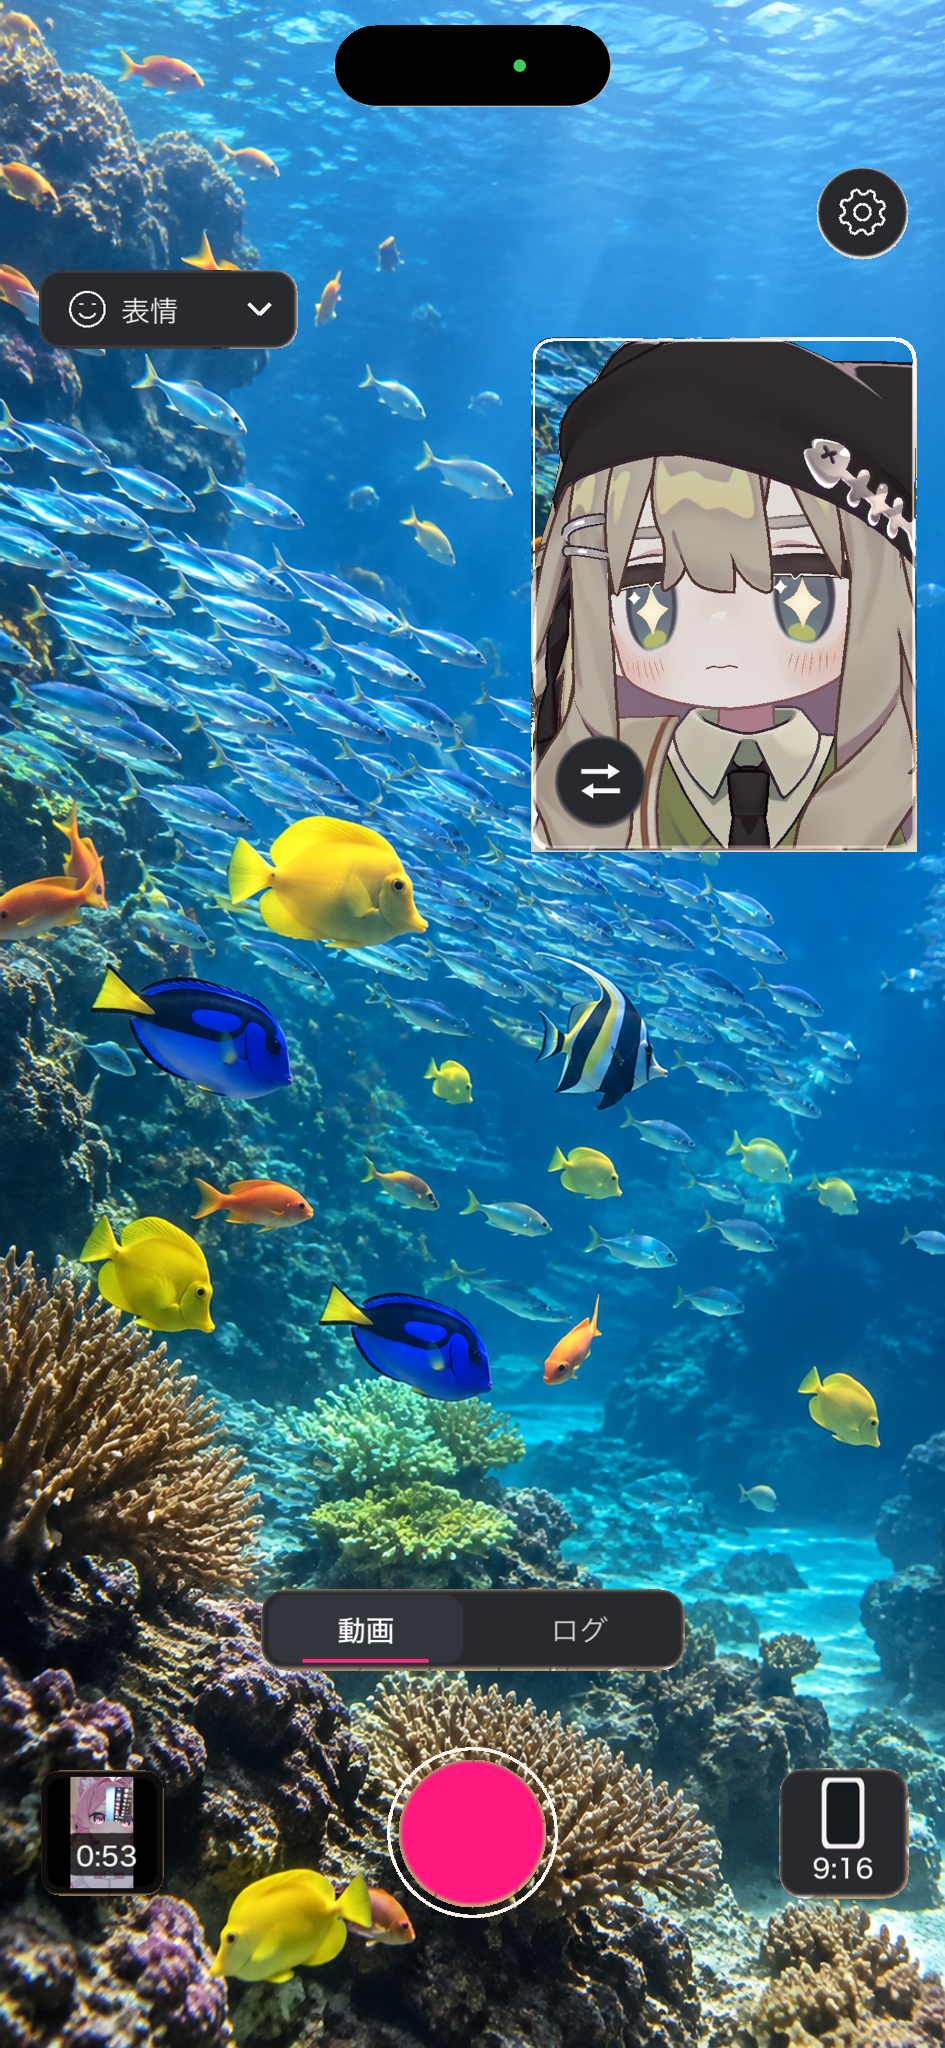
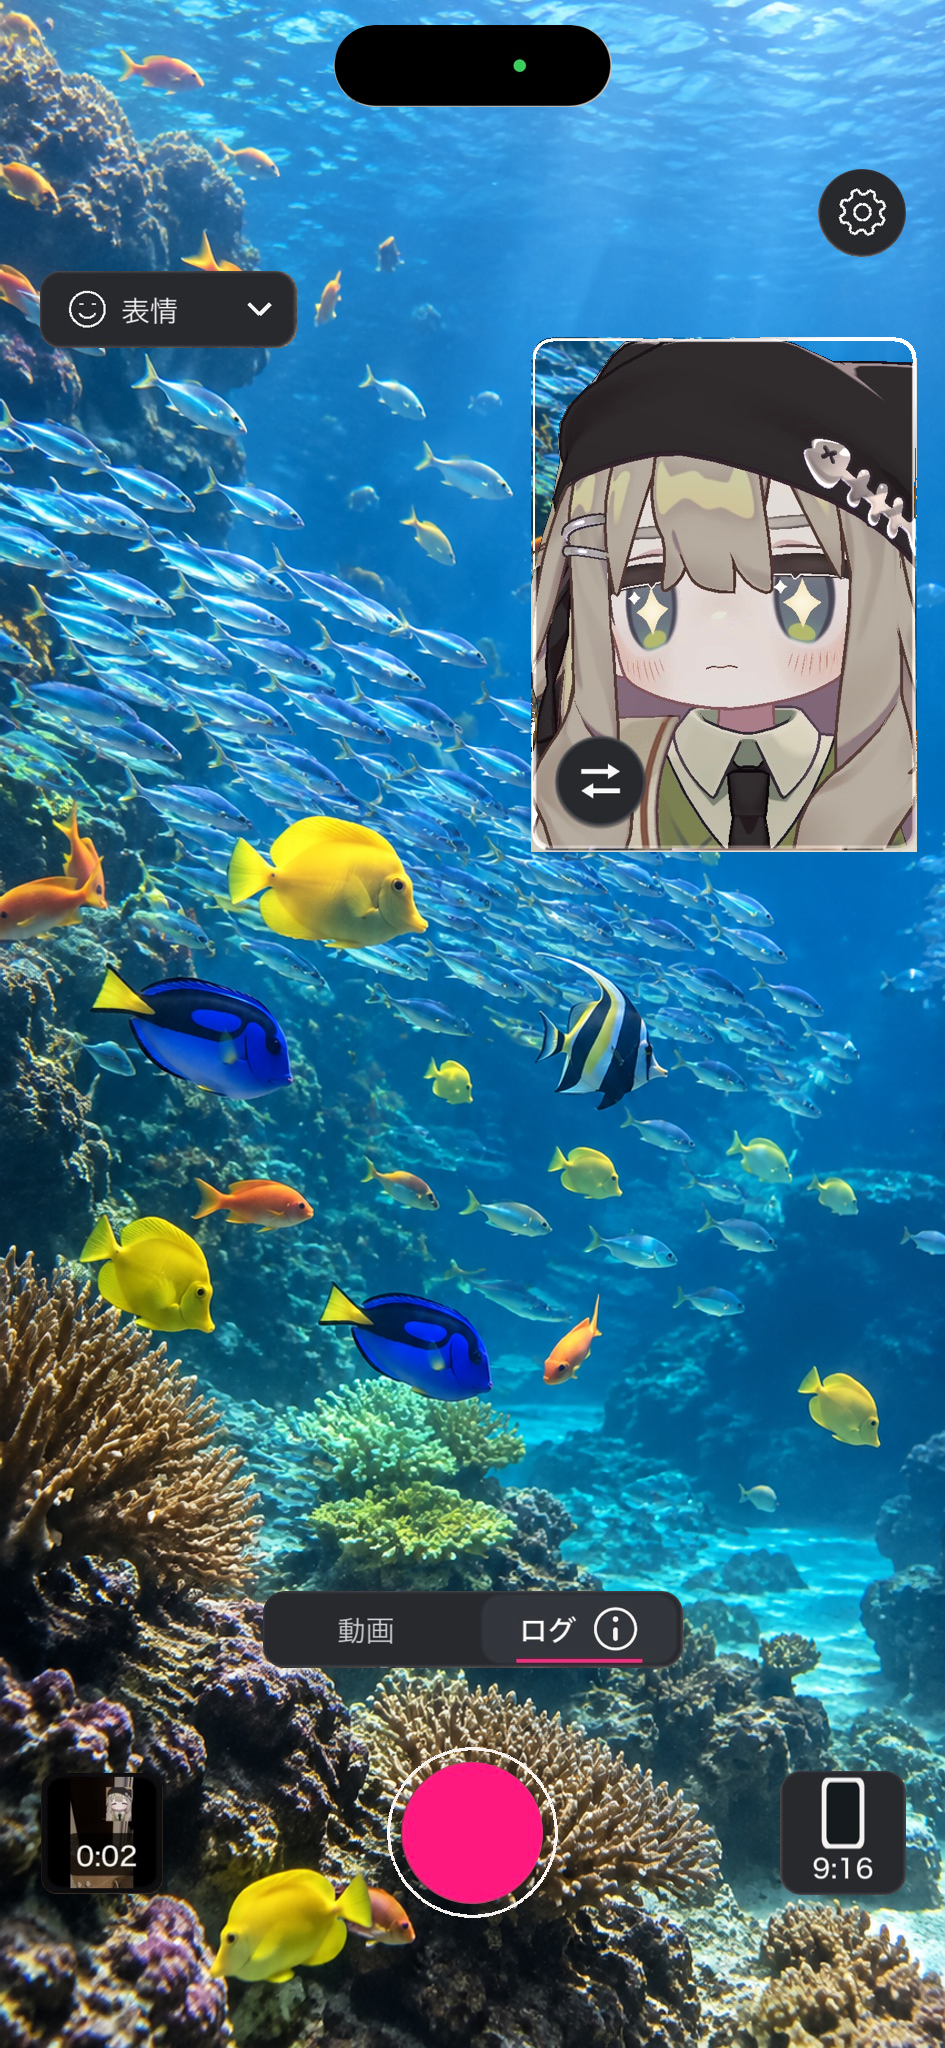
承認済みの撮影UIと編集テキスト枠を反映 (#6)

diff --git a/app/page.tsx b/app/page.tsx
@@ -24,7 +24,7 @@ export default function Home() {
             <a className="sub-link" href="#log">できることを見る <span aria-hidden="true">↓</span></a>
           </div>
         </div>
-        <figure className="hero-figure"><Screen file="capture.webp?v=aquarium-20260913" alt="色鮮やかな魚が泳ぐ水族館の水槽とアバターを映した撮影画面" className="hero-device" priority /><figcaption><Credit /><span className="caption">撮影画面</span></figcaption></figure>
+        <figure className="hero-figure"><Screen file="capture.webp?v=ui-20260913" alt="色鮮やかな魚が泳ぐ水族館の水槽とアバターを映した撮影画面" className="hero-device" priority /><figcaption><Credit /><span className="caption">撮影画面</span></figcaption></figure>
       </section>
       <section className="section review-section" id="log" aria-labelledby="log-heading">
         <div><span id="features" className="anchor" /><div className="tag">ログ</div><h2 id="log-heading">2秒ずつ撮って、<br />あとでつなぐ</h2>
@@ -44,7 +44,7 @@ export default function Home() {
       <section className="section editing-section" id="editing" aria-labelledby="editing-heading">
         <div><div className="tag">動画の編集</div><h2 id="editing-heading">動画をカットして、<br />文字を入れる</h2><p>撮影した動画をアプリで編集できます。<br />文字の位置や大きさ、動画の色味も調整できます。</p>
           <dl className="editing-list"><div><dt>トリム</dt><dd>使いたい部分を残す</dd></div><div><dt>テキスト</dt><dd>文字を入れて、位置や大きさを調整</dd></div><div><dt>フィルタ</dt><dd>クリップごとに色味を変える</dd></div></dl></div>
-        <figure><Screen file="video-editor.webp?v=scenery-20260913" alt="富士山・赤レンガ倉庫・五稜郭・レインボーブリッジと牛の景色に「すごい景色！」と文字を入れた動画編集画面" className="editor-device" /><figcaption><span className="caption">動画編集画面</span><Credit /></figcaption></figure>
+        <figure><Screen file="video-editor.webp?v=textbox-20260913" alt="富士山・赤レンガ倉庫・五稜郭・レインボーブリッジと牛の景色に「すごい景色！」と文字を入れた動画編集画面" className="editor-device" /><figcaption><span className="caption">動画編集画面</span><Credit /></figcaption></figure>
       </section>
       <section className="section avatar-section" id="avatar" aria-labelledby="avatar-heading">
         <div><div className="tag">アバター</div><h2 id="avatar-heading">使うアバターを選ぶ</h2><dl className="avatar-methods">

diff --git a/docs/assets.md b/docs/assets.md
@@ -12,11 +12,11 @@ additional rights to the depicted avatars.
 
 | File | Use |
 | --- | --- |
-| capture.webp | Hero camera screen; aquarium background updated September 13, 2026 |
+| capture.webp | Hero camera screen; latest capture UI and aquarium background, September 13, 2026 |
 | log-review.webp | Saving a short log |
 | log-join.webp | Joining restaurant logs |
 | vlog-restaurant.webp | Completed video example |
-| video-editor.webp | Video editing screen; scenic background updated September 13, 2026 |
+| video-editor.webp | Video editing screen; latest text selection box and scenic background, September 13, 2026 |
 | expression-neutral.webp, expression-calm.webp, expression-star.webp | Expression examples |
 
 `app-store-badge-ja.svg` is Apple's unmodified Japanese Download on the App Store
@@ -35,3 +35,11 @@ created with the built-in image generation tool at the owner's request.
 The avatar and camera controls retain their existing pixels. The inner-camera
 background uses the same aquarium image. The output is lossless WebP; 321,088
 protected avatar and UI pixels were verified unchanged.
+
+Later on September 13, 2026, the owner approved refreshed UI mockups. The hero
+controls now use pixels from the owner's latest capture screenshot, including
+the selected Log mode. Its complete 386 × 515 avatar inset remains unchanged.
+The editor retains the caption 「すごい景色！」 with the latest pink rounded
+selection outline and the supplied screenshot's white resize handle. Its avatar
+inset and all pixels outside the caption/control area remain unchanged. Both
+published WebP images were checked pixel-for-pixel against the approved PNGs.
